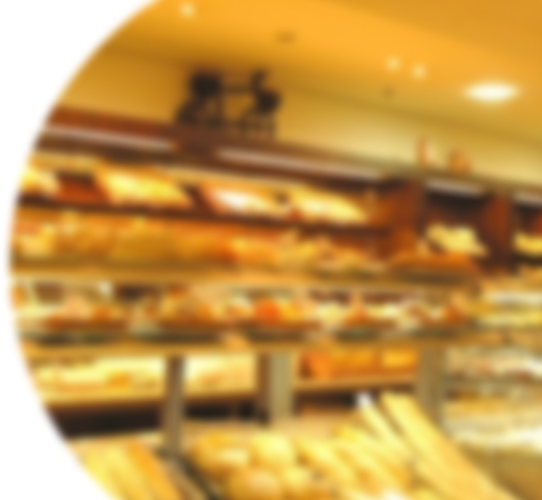
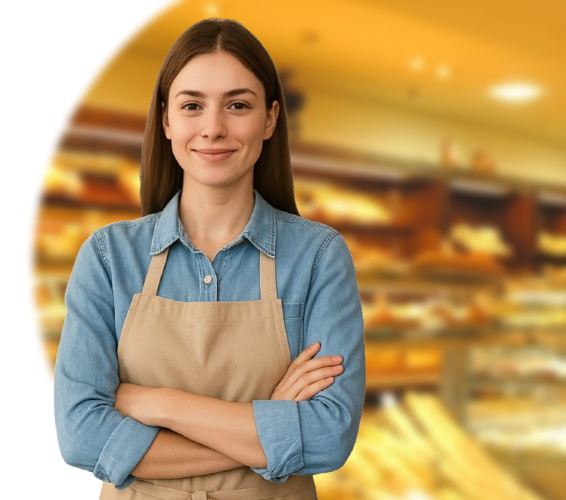
Upload style, index e img_fundo_banner
Style da home atualizado e quase completo, img_fundo_banner e mulher_banner fundidos em apenas img_fundo_banner, e index.html alterado para arrumar o banner

diff --git a/templates/index.html b/templates/index.html
@@ -23,58 +23,67 @@
     <main>
         <section class="fundo banner">
             <div class="banner_infos">
-                <h1>Gestão simples,<br>Crédito rápido</h1>
-                <p>Seu negócio cresce com a gente</p>
-                <a href="" class="banner_button">Abra sua conta</a>
-            </div>
-            <div class="banner_imgs">
-                <img src="../static/img/img_fundo_banner.png" alt="" class="img_fundo_banner">
-                <img src="../static/img/mulher_banner.png" alt="" class="mulher_banner">
+                <div>
+                    <h1>Gestão simples,<br>Crédito rápido</h1>
+                    <p>Seu negócio cresce com a gente</p>
+                    <a href="" class="banner_button">Abra sua conta</a>
+                </div>
             </div>
         </section>
-        <section>
-            <div>
-                <img src="" alt="icon calculadora">
-                <h2>Simulação precisa</h2>
+
+        <h1 class="servicos_h1">Nossos Serviços</h1>
+        <section class="servicos">
+            <div class="servico_card">
+                <div class="div_icone"> <!-- Caso precise colocar cor de fundo no icone use essa div-->
+                    <img src="../static/img/icone_calculadora.png" alt="icon calculadora">
+                </div>
+                <p>Simulação precisa</p>
+                <br>
                 <p>Calcule empréstimos com base nas taxas atuais e avalie o impacto no seu fluxo de caixa</p>
             </div>
-            <div>
-                <img src="" alt="icon proteção/anti risco">
-                <h2>Análise de risco</h2>
+            <div class="servico_card">
+                <div class="div_icone">
+                    <img src="../static/img/icone_escudo.png" alt="icon proteção/anti risco">
+                </div>
+                <p>Análise de risco</p>
+                <br>
                 <p>Classificação automática de risco baseada no comprometimento da sua renda mensal</p>
             </div>
-            <div>
-                <img src="" alt="icon gráfico com valores aumentando">
-                <h2>Gestão automática</h2>
+            <div class="servico_card">
+                <div class="div_icone">
+                    <img src="../static/img/icone_grafico.png" alt="icon gráfico com valores aumentando">
+                </div>
+                <p>Gestão automática</p>
+                <br>
                 <p>Registro automático de receitas e despesas futuras na sua movimentação financeira</p>
             </div>
         </section>
-        <section class="fundo">
-            <h1>Sobre a auro</h1>
+        <section class="fundo sobre" style="display: flex;">
             <div>
-                <p>A Auro foi criada para ajudar pequenos empresários a tomar decisões financeiras mais inteligentes.
+                <h1>Sobre a auro</h1>
+                <p class="sobre_p">A Auro foi criada para ajudar pequenos empresários a tomar decisões financeiras mais inteligentes.
                     Nossa plataforma combina tecnologia avançada com simplicidade de uso</p>
             </div>
             <div>
-                <div>
-                    <div>
+                <div class="fundo_sobre_items">
+                    <div class="sobre_items">
                         <h3>100%</h3>
                         <p>Precisão nos cálculos</p>
                     </div>
-                    <div>
+                    <div class="sobre_items">
                         <h3>24/07</h3>
                         <p>Disponibilidade</p>
                     </div>
                 </div>
-                <div>
-                    <div>
+                <div class="fundo_sobre_items">
+                    <div class="sobre_items">
                         <h3>100%</h3>
                         <p>Segurança</p>
                     </div>
-                    <div>
-                        <h3></h3>
-                        <p></p>
-                    </div>
+                    <!-- <div class="sobre_items">
+                        <h3>Deixa</h3>
+                        <p>Pro Rafa</p>
+                    </div> -->
                 </div>
             </div>
         </section>

diff --git a/static/css/style.css b/static/css/style.css
@@ -1,10 +1,12 @@
 @import url('https://fonts.googleapis.com/css2?family=Nunito:ital,wght@0,200..1000;1,200..1000&display=swap');
+@import url('https://fonts.googleapis.com/css2?family=Exo+2:ital,wght@0,100..900;1,100..900&display=swap');
 
 :root {
     --gradient_fundo: linear-gradient(to right bottom, #3FA110 9%, #173B06 100%);
     /* Gradient do fundo */
-    --sombra: 5px 4px 10px 5px lightgray;
+    --sombra: 0px 4px 5px 4px lightgray;
     /* Sombras nas caixas/cards */
+    --verde_banner: #33830D;
     --verde_medio: #146E37;
     /*Cor do footer, botão dashboard*/
     --verde_claro: #00C94E;
@@ -165,51 +167,85 @@ footer>small>p {
     padding-right: 10px;
 }
 
-.banner {
+h1 {
+    font-family: "Exo 2";
+    font-weight: 500;
+}
+
+.banner  {
     height: 500px;
+    background-image: url('../img/img_fundo_banner.png');
+    background-color: var(--verde_positivo);
+    background-position: right;
+    background-repeat: no-repeat;
+    background-size: contain;
 }
 
 .banner h1 {
-    font-size: 3.5em;
-}
-
-.banner p {
-    font-size: 1.5em;
-    margin: 10px 0 25px 0;
+    font-size: 5em;
+    width: 600px;
+    margin: 30px 0 0 100px;
 }
 
 .banner_infos {
-    padding: 114px 0 0 150px;
+    display: flex;
 }
 
-.banner_imgs {
-    display: flex;
-    justify-content: right;
+.banner p {
+    font-size: 1.8em;
+    max-width: 500px;
+    margin: 30px 0 0 100px;
 }
 
 .banner_button {
     background-color: white;
     color: var(--verde_medio);
-    padding: 10px;
+    padding: 7px 30px 15px 30px;
+    height: 60px;
     border-radius: 10px;
     display: inline-block;
-    font-size: 1.4em;
+    font-size: 2.2em;
+    margin: 50px 0 0 100px;;
 }
 
-.img_fundo_banner {
-    position: relative;
-    left: 447px;
+.servicos {
+    font-size: 20px;
+    text-align: center;
+    display: flex;
+    justify-self: center;
 }
 
-.mulher_banner {
-    position: relative;
-    left: -120px;
+.servicos_h1 {
+    margin: 10px 0 20px 0;
+    font-size: 3em;
+    text-align: center;
+    color: var(--verde_banner);
 }
 
-.mulher_banner,
-.img_fundo_banner {
-    top: -386px;
+.servico_card {
+    height: 300px;
+    min-width: 300px;
+    background-color: white;
+    padding: 10px;
+    width: 25%;
+    margin: auto;
+    margin-bottom: 30px;
+    border-radius: 15px;
+    box-shadow: var(--sombra);
 }
+
+.div_icone {
+    margin-top: 20px;
+}
+/* Caso for colocar cor de fundo no icone */
+/* 
+.div_icone {
+    display: flex;
+    height: 130px;
+    width: 130px;
+    align-items: center;
+    justify-content: center;
+} */
 
 .fundo_com_chapeu {
     background-image: url(../img/homem_com_chapeu.png);
@@ -415,4 +451,27 @@ form input {
 .dash_movimenta .container_cards{
     width: 50%;
     margin-left: 100px;
+}
+
+.sobre {
+    padding: 30px;
+    justify-content: space-around;
+    align-items: center;
+}
+
+.sobre_p {
+    width: 500px;
+}
+
+.fundo_sobre_items {
+    display: flex;
+    color: black;
+    background-color: white;
+    width: 500px;
+    height: 70px;
+    justify-content: space-around;
+}
+
+.sobre_items {
+    margin: 10px;
 }
